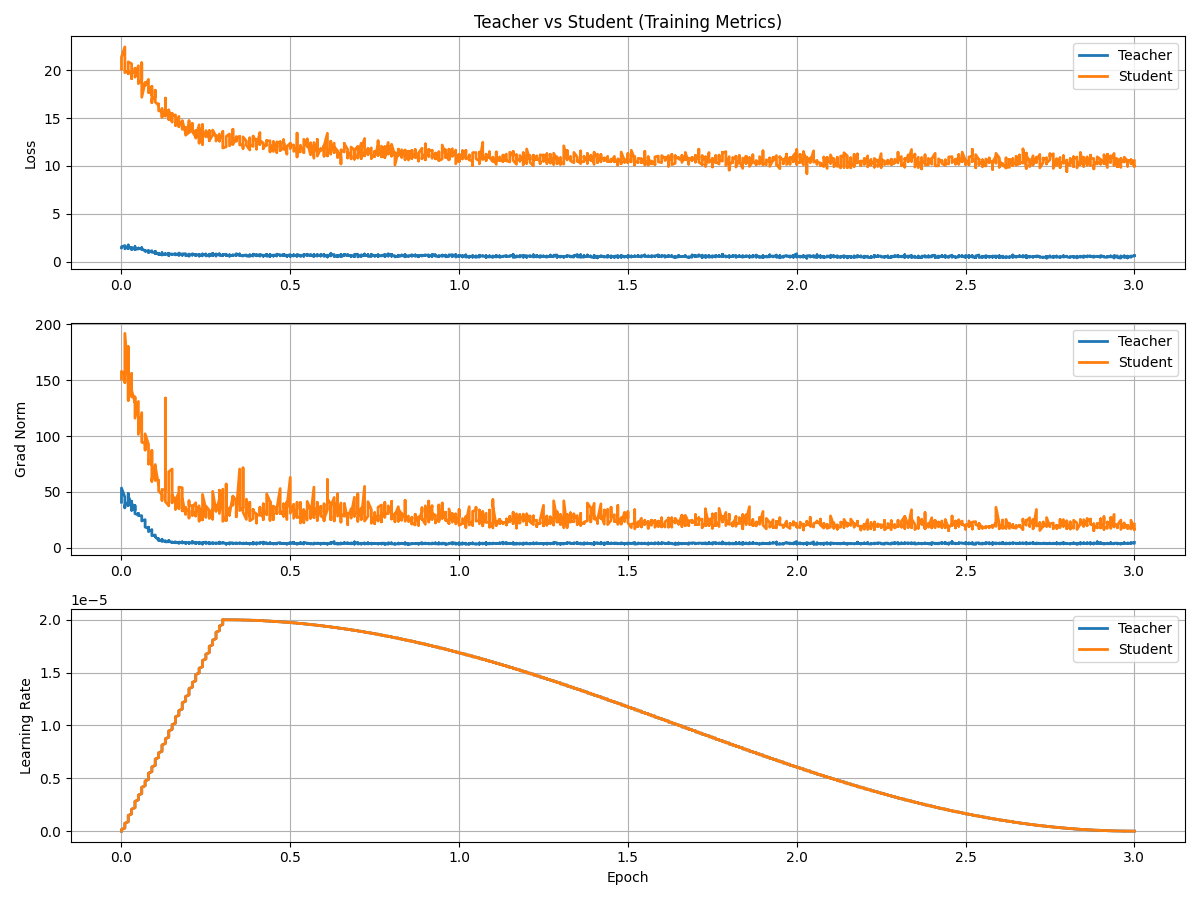
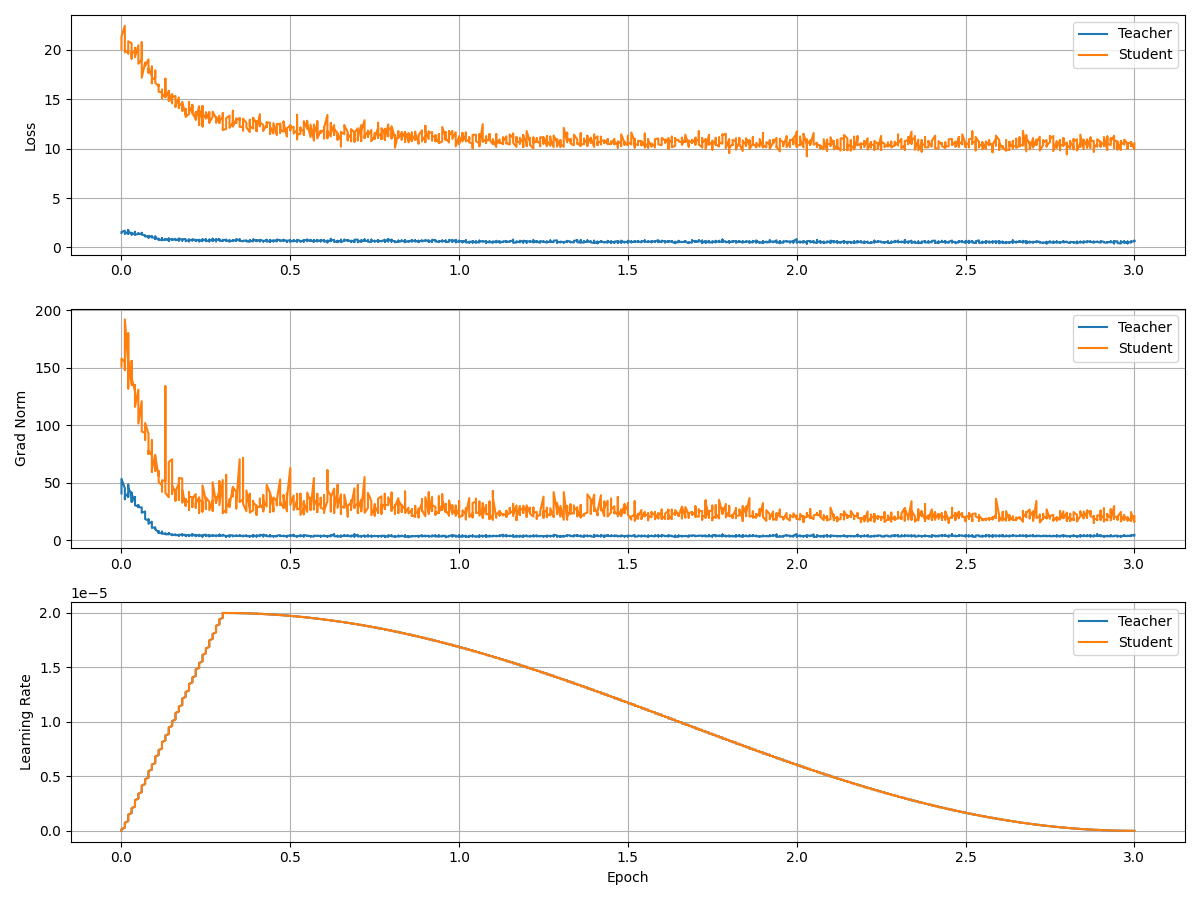
chore: plot model metrics

diff --git a/example/plot_logs.py b/example/plot_logs.py
@@ -1,10 +1,18 @@
 import re
 import ast
+import json
 from pathlib import Path
-import matplotlib.pyplot as plt
+from datetime import datetime
 
-# ===================== 配置 =====================
-LOG_PATH = Path("example/all.log")
+import matplotlib.pyplot as plt
+import numpy as np
+
+# =============================================================================
+#                               CONFIG
+# =============================================================================
+
+BASE_DIR = Path("example")
+LOG_PATH = BASE_DIR / "all.log"
 
 TEACHER_DONE = "Teacher model training completed successfully"
 STUDENT_DONE = "Student model distillation completed successfully"
@@ -12,8 +20,30 @@ STUDENT_DONE = "Student model distillation completed successfully"
 TRAINING_DICT_PATTERN = re.compile(r"\{[^{}]*'loss'[^{}]*\}")
 KD_DICT_PATTERN = re.compile(r"\{[^{}]*'loss_kd_logits'[^{}]*\}")
 
+EVAL_JSON_PREFIX = "evaluation_results_"
 
-# ===================== 解析函数 =====================
+METRICS = [
+    "perplexity",
+    "average_loss",
+    "bleu_score",
+    "f1_score",
+    "rouge1",
+    "rouge2",
+    "rougeL",
+]
+
+MODEL_KEYS = [
+    "teacher_origin",
+    "teacher",
+    "original_student",
+    "distilled_student",
+]
+
+# =============================================================================
+#                        LOG PARSING (TRAIN / KD)
+# =============================================================================
+
+
 def parse_training_metrics(text: str):
     losses, grad_norms, lrs, epochs = [], [], [], []
 
@@ -31,9 +61,7 @@ def parse_training_metrics(text: str):
 
 
 def parse_kd_metrics(text: str):
-    loss_kd_logits = []
-    loss_kd_hidden = []
-    loss_ce = []
+    loss_kd_logits, loss_kd_hidden, loss_ce = [], [], []
 
     for m in KD_DICT_PATTERN.finditer(text):
         try:
@@ -47,7 +75,11 @@ def parse_kd_metrics(text: str):
     return loss_kd_logits, loss_kd_hidden, loss_ce
 
 
-# ===================== 画图函数 =====================
+# =============================================================================
+#                                 PLOTS
+# =============================================================================
+
+
 def plot_training(title, losses, grad_norms, lrs, epochs):
     if not losses:
         print(f"[WARN] No training data for {title}")
@@ -83,27 +115,23 @@ def plot_teacher_student_compare(t_ep, t_loss, t_gn, t_lr, s_ep, s_loss, s_gn, s
 
     plt.figure(figsize=(12, 9))
 
-    # Loss
     plt.subplot(3, 1, 1)
-    plt.plot(t_ep, t_loss, label="Teacher", linewidth=2)
-    plt.plot(s_ep, s_loss, label="Student", linewidth=2)
+    plt.plot(t_ep, t_loss, label="Teacher")
+    plt.plot(s_ep, s_loss, label="Student")
     plt.ylabel("Loss")
-    plt.title("Teacher vs Student (Training Metrics)")
     plt.legend()
     plt.grid(True)
 
-    # Grad norm
     plt.subplot(3, 1, 2)
-    plt.plot(t_ep, t_gn, label="Teacher", linewidth=2)
-    plt.plot(s_ep, s_gn, label="Student", linewidth=2)
+    plt.plot(t_ep, t_gn, label="Teacher")
+    plt.plot(s_ep, s_gn, label="Student")
     plt.ylabel("Grad Norm")
     plt.legend()
     plt.grid(True)
 
-    # LR
     plt.subplot(3, 1, 3)
-    plt.plot(t_ep, t_lr, label="Teacher", linewidth=2)
-    plt.plot(s_ep, s_lr, label="Student", linewidth=2)
+    plt.plot(t_ep, t_lr, label="Teacher")
+    plt.plot(s_ep, s_lr, label="Student")
     plt.ylabel("Learning Rate")
     plt.xlabel("Epoch")
     plt.legend()
@@ -118,15 +146,14 @@ def plot_kd_losses(title, loss_kd_logits, loss_kd_hidden, loss_ce):
         print(f"[WARN] No KD loss data for {title}")
         return
 
-    steps = list(range(1, len(loss_kd_logits) + 1))
+    steps = range(1, len(loss_kd_logits) + 1)
 
     plt.figure(figsize=(10, 6))
+    plt.plot(steps, loss_kd_logits, label="KD Logits")
+    plt.plot(steps, loss_kd_hidden, label="KD Hidden")
+    plt.plot(steps, loss_ce, label="CE")
 
-    plt.plot(steps, loss_kd_logits, label="KD Logits Loss", marker="o")
-    plt.plot(steps, loss_kd_hidden, label="KD Hidden Loss", marker="o")
-    plt.plot(steps, loss_ce, label="CE Loss", marker="o")
-
-    plt.xlabel("Training Step (log order)")
+    plt.xlabel("Training Step")
     plt.ylabel("Loss")
     plt.title(title)
     plt.legend()
@@ -136,30 +163,106 @@ def plot_kd_losses(title, loss_kd_logits, loss_kd_hidden, loss_ce):
     plt.show()
 
 
-# ===================== 主流程 =====================
+# =============================================================================
+#                    EVALUATION JSON (LATEST FILE)
+# =============================================================================
+
+
+def find_latest_eval_json():
+    files = list(BASE_DIR.glob(f"{EVAL_JSON_PREFIX}*.json"))
+    if not files:
+        raise FileNotFoundError("No evaluation_results_*.json found")
+
+    def extract_ts(p: Path):
+        ts = p.stem.replace(EVAL_JSON_PREFIX, "")
+        return datetime.strptime(ts, "%Y%m%d_%H%M%S")
+
+    latest = max(files, key=extract_ts)
+    print(f"[INFO] Using latest evaluation file: {latest.name}")
+    return latest
+
+
+def load_eval_data():
+    path = find_latest_eval_json()
+    with open(path, "r", encoding="utf-8") as f:
+        return json.load(f)["models"]
+
+
+# =============================================================================
+#                       EVALUATION PLOTS
+# =============================================================================
+
+
+def annotate_bars(bars, precision=2):
+    for bar in bars:
+        h = bar.get_height()
+        plt.text(bar.get_x() + bar.get_width() / 2,
+                 h,
+                 f"{h:.{precision}f}",
+                 ha="center",
+                 va="bottom",
+                 fontsize=9)
+
+
+def plot_student_before_after(models):
+    before = models["original_student"]
+    after = models["distilled_student"]
+
+    metrics = METRICS
+    before_vals = [before[m] for m in metrics]
+    after_vals = [after[m] for m in metrics]
+
+    x = np.arange(len(metrics))
+    width = 0.35
+
+    plt.figure(figsize=(12, 6))
+    bars1 = plt.bar(x - width / 2, before_vals, width, label="Original Student")
+    bars2 = plt.bar(x + width / 2, after_vals, width, label="Distilled Student")
+
+    annotate_bars(bars1)
+    annotate_bars(bars2)
+
+    plt.xticks(x, [m.replace("_", "\n") for m in metrics])
+    plt.ylabel("Score")
+    plt.title("Student Before vs After Distillation")
+    plt.legend()
+    plt.grid(axis="y", linestyle="--", alpha=0.6)
+
+    plt.tight_layout()
+    plt.show()
+
+
+# =============================================================================
+#                                   MAIN
+# =============================================================================
+
+
 def main():
+    # ================= TRAIN / KD LOGS =================
     text = LOG_PATH.read_text(encoding="utf-8", errors="ignore")
 
-    teacher_end = text.find(TEACHER_DONE)
-    student_end = text.find(STUDENT_DONE)
+    t_end = text.find(TEACHER_DONE)
+    s_end = text.find(STUDENT_DONE)
 
-    if teacher_end == -1 or student_end == -1:
+    if t_end == -1 or s_end == -1:
         raise RuntimeError("Teacher / Student completion marker not found")
 
-    teacher_text = text[:teacher_end]
-    student_text = text[teacher_end + len(TEACHER_DONE):student_end]
+    teacher_text = text[:t_end]
+    student_text = text[t_end + len(TEACHER_DONE):s_end]
 
-    # -------- Training metrics --------
     t_loss, t_gn, t_lr, t_ep = parse_training_metrics(teacher_text)
     s_loss, s_gn, s_lr, s_ep = parse_training_metrics(student_text)
 
-    plot_training("Teacher Training Metrics", t_loss, t_gn, t_lr, t_ep)
-    plot_training("Student Training Metrics", s_loss, s_gn, s_lr, s_ep)
+    plot_training("Teacher Training", t_loss, t_gn, t_lr, t_ep)
+    plot_training("Student Training", s_loss, s_gn, s_lr, s_ep)
     plot_teacher_student_compare(t_ep, t_loss, t_gn, t_lr, s_ep, s_loss, s_gn, s_lr)
 
-    # -------- KD metrics (Student only) --------
     kd_logits, kd_hidden, kd_ce = parse_kd_metrics(student_text)
-    plot_kd_losses("Student KD Loss Trends", kd_logits, kd_hidden, kd_ce)
+    plot_kd_losses("Student KD Loss", kd_logits, kd_hidden, kd_ce)
+
+    # ================= EVALUATION =================
+    models = load_eval_data()
+    plot_student_before_after(models)
 
 
 if __name__ == "__main__":
